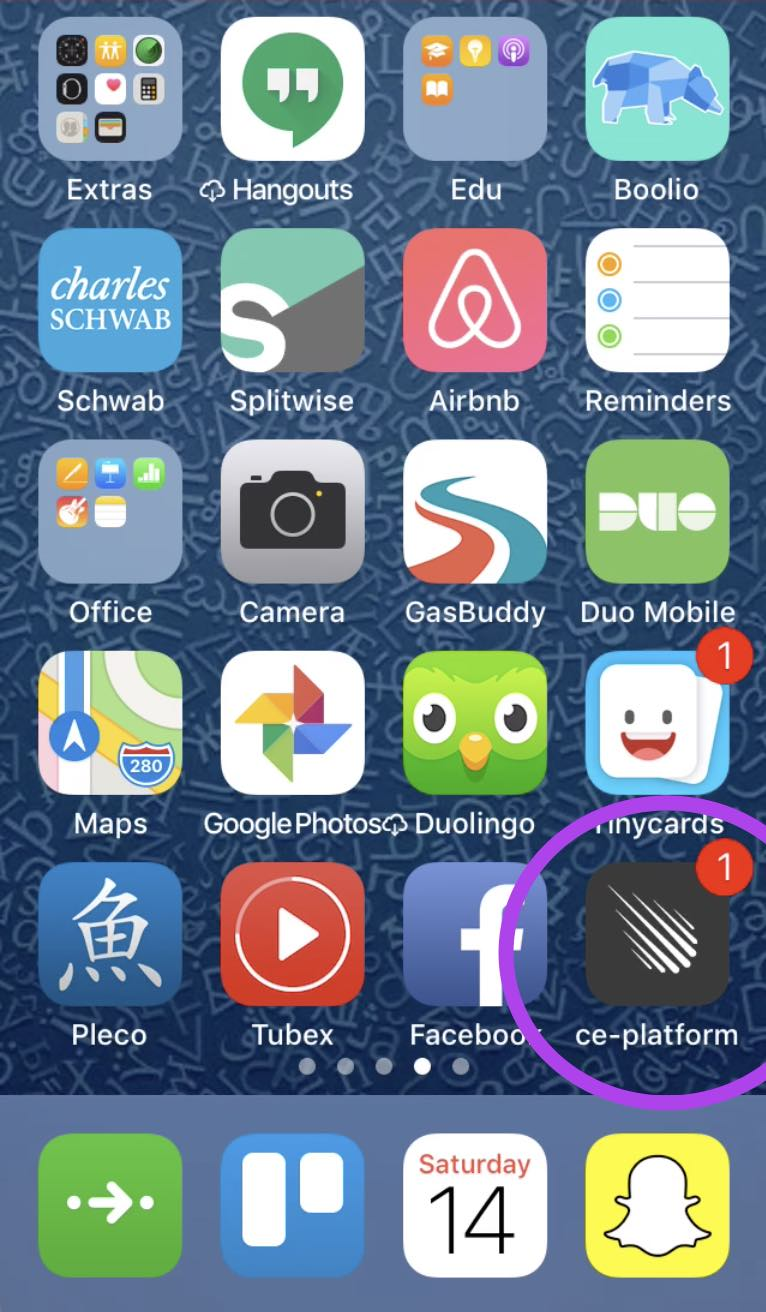
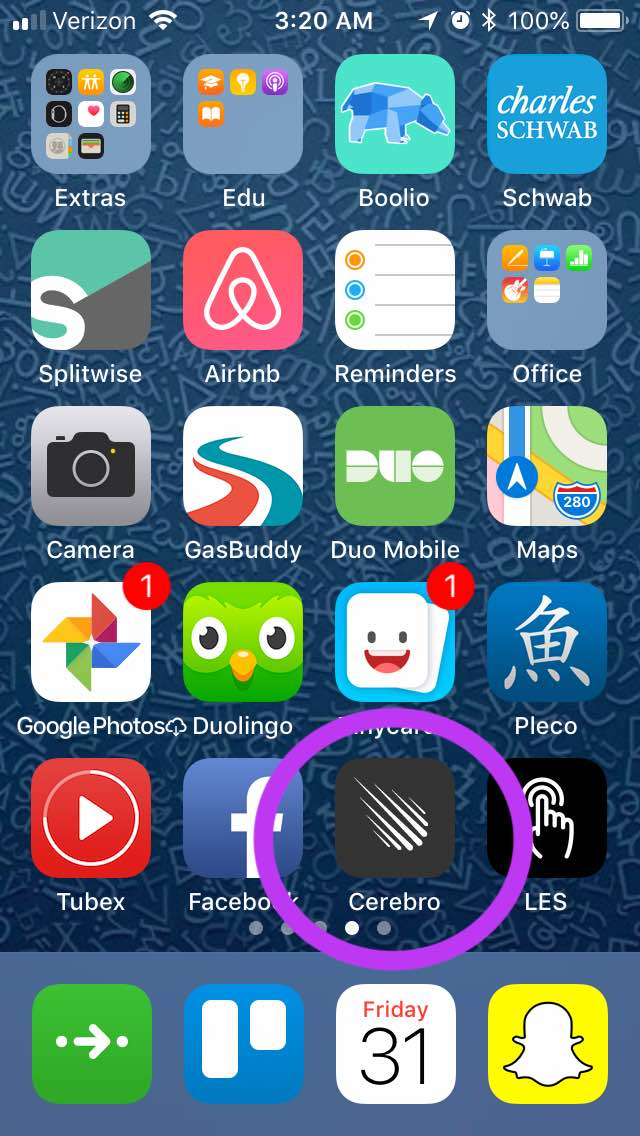
Changed screenshot photos for Cerebro name change

diff --git a/_posts/2018-08-31-dtr-install-ce.md b/_posts/2018-08-31-dtr-install-ce.md
@@ -21,7 +21,7 @@ https://www.dropbox.com/s/
 
 2. Allow Cerebro.ipa from Dropbox to be installed (See below)
 <a href="#">
-    <img src="{{ site.baseurl }}/img/ce/ce-dropbox-install.png"
+    <img src="{{ site.baseurl }}/img/ce/ce-dropbox-install.jpg"
     style="display: block;
     margin-left: auto;
     margin-right: auto;

diff --git a/_posts/2018-08-31-olin-install-ce.md b/_posts/2018-08-31-olin-install-ce.md
@@ -20,7 +20,7 @@ organiser: "Ryan Louie"
 
 2. Allow Cerebro.ipa from Dropbox to be installed (See below)
 <a href="#">
-    <img src="{{ site.baseurl }}/img/ce/ce-dropbox-install.png"
+    <img src="{{ site.baseurl }}/img/ce/ce-dropbox-install.jpg"
     style="display: block;
     margin-left: auto;
     margin-right: auto;
